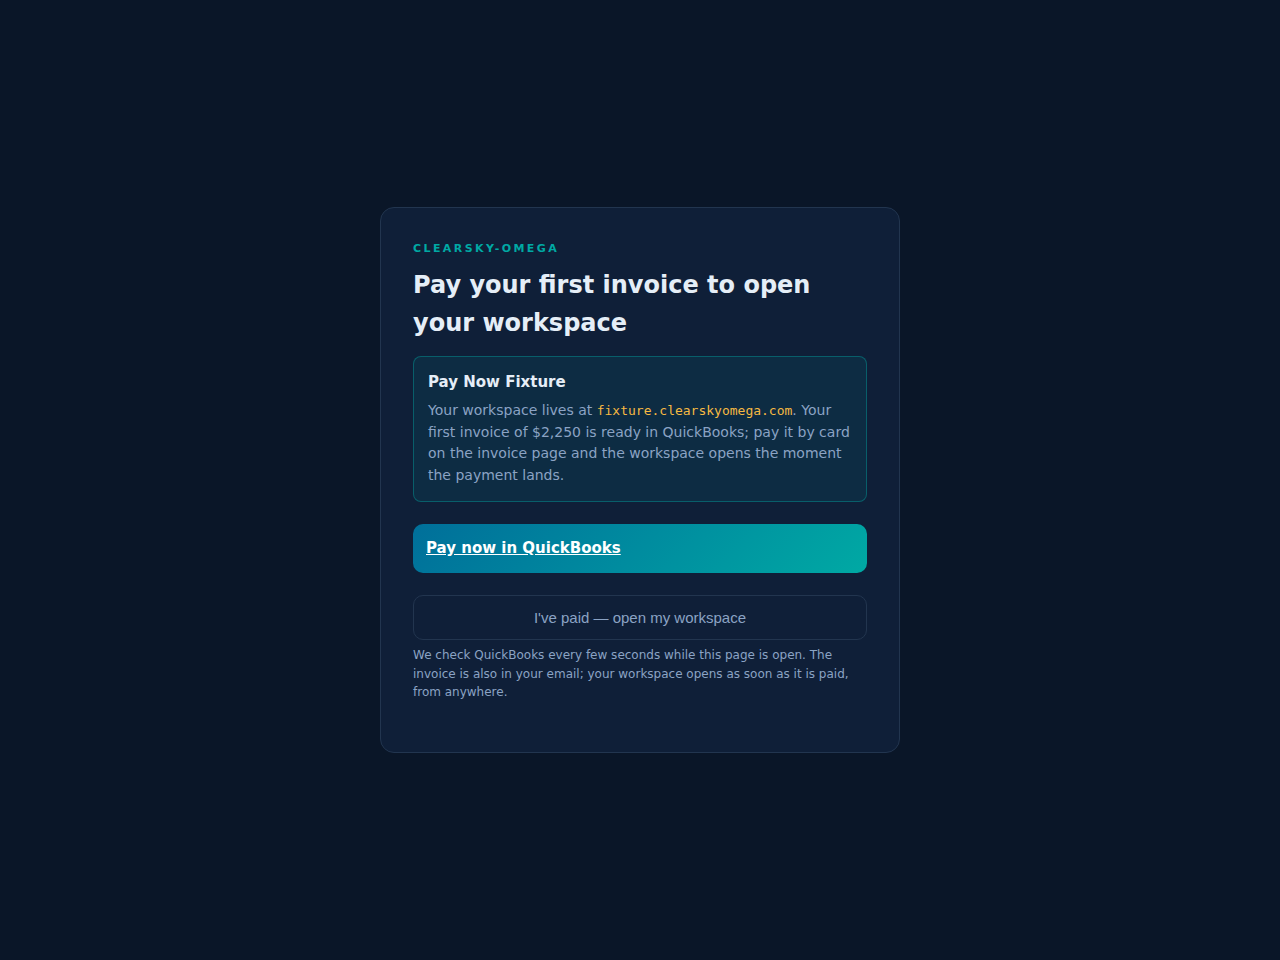
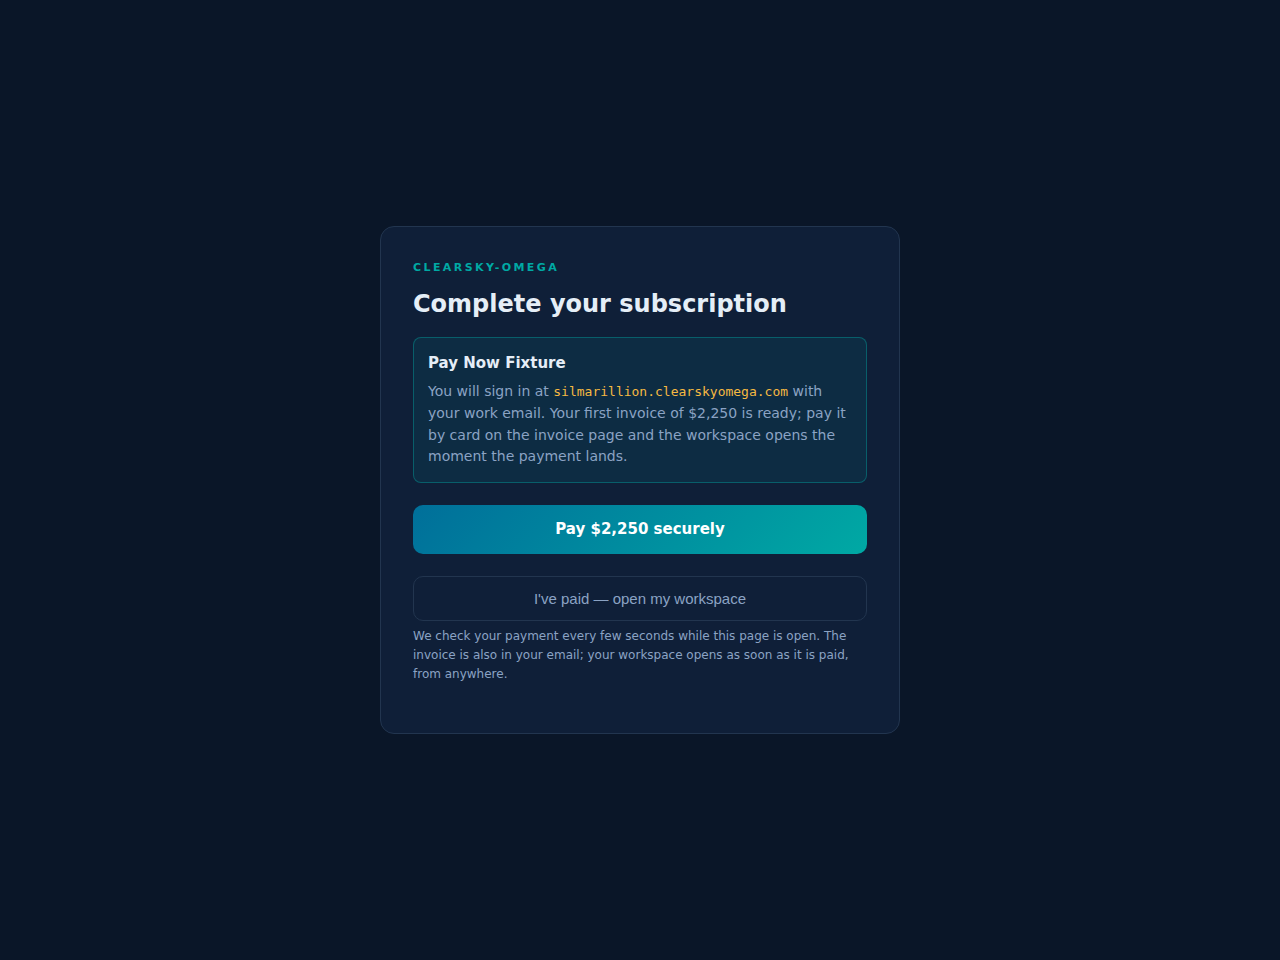
Signup: Build your system as a shop, the suggested package picked for them, a plain Subscribe
The build step is a wide two-column shop: compact square cards in a grid
per shelf (name, price, two lines of what it does, tags), the cart on the
right (lines, the price, monthly or yearly) with one Subscribe button.
The server's recommendation from the discovery answers is fetched on
arrival, picked and marked Suggested, with Use suggestion to go back to
it. The pay step reads Complete your subscription and Pay $X securely,
naming no payment system. Tests follow the new words.

Claude-Session: https://claude.ai/code/session_01NgjovuYzEurHoG46zsYYrF

Changed region(s): [[0.3125, 0.25, 0.6875, 0.75]]

diff --git a/start.html b/start.html
@@ -49,6 +49,45 @@
   .verify{margin-top:14px}
   @media(max-width:480px){.pick-row{grid-template-columns:1fr}}
 .sq{padding:10px 0;border-bottom:1px solid var(--line,#E2E8F0)}.sq-opts{display:flex;flex-wrap:wrap;gap:6px 14px;margin-top:4px;font-size:13px}.sq-opts label,.sq-more{display:inline-flex;align-items:center;gap:4px;font-weight:400;font-size:13px;margin:4px 12px 0 0;white-space:nowrap;width:auto}.sq-opts input,.sq-more input[type=checkbox]{width:auto;margin:0}
+
+  /* Build your system as a shop (Tommy, 2026-09-27): a wide page, square cards in a grid, the cart on the right */
+  body.wide .card{max-width:1120px}
+  .shop{display:grid;grid-template-columns:minmax(0,1fr) 320px;gap:22px;align-items:start;margin-top:6px}
+  .cart{position:sticky;top:18px}
+  .cart .price-panel{margin-top:0}
+  .cart .btn{margin-top:12px}
+  #signup-package-menu .pkm-shelf{margin:0 0 14px}
+  #signup-package-menu .pkm-shelf h4{margin:0 0 8px;font-size:11px;letter-spacing:.14em;text-transform:uppercase;color:var(--sub);font-weight:700}
+  #signup-package-menu .pkm-mods{display:grid;grid-template-columns:repeat(auto-fill,minmax(178px,1fr));gap:10px}
+  #signup-package-menu .pkm-mod{position:relative;display:flex!important;flex-direction:column;gap:6px;min-height:138px;margin:0;padding:12px 12px 10px;border:1px solid var(--line);border-radius:12px;background:rgba(255,255,255,.03);cursor:pointer;letter-spacing:0;font-weight:400;color:var(--txt);transition:border-color .15s,background .15s,transform .15s}
+  #signup-package-menu .pkm-mod:hover{border-color:#34507A;transform:translateY(-1px)}
+  #signup-package-menu .pkm-mod.on{border-color:var(--teal);background:rgba(0,169,164,.09)}
+  #signup-package-menu .pkm-mod input{position:absolute;top:10px;right:10px;width:16px;height:16px;margin:0;accent-color:var(--teal)}
+  #signup-package-menu .pkm-name{display:flex;flex-direction:column;gap:2px;padding-right:22px}
+  #signup-package-menu .pkm-name b{font-size:14px;line-height:1.25}
+  #signup-package-menu .pkm-price{font-size:13px;color:var(--gold);font-weight:600}
+  #signup-package-menu .pkm-desc{font-size:12px;line-height:1.4;color:var(--sub);display:-webkit-box;-webkit-line-clamp:3;-webkit-box-orient:vertical;overflow:hidden}
+  #signup-package-menu .pkm-desc + .pkm-desc{display:none}
+  #signup-package-menu .pkm-tags{display:flex;flex-wrap:wrap;gap:4px;margin-top:auto}
+  #signup-package-menu .pkm-tag{font-size:10px;padding:2px 6px;border-radius:999px;border:1px solid var(--line);color:var(--sub)}
+  #signup-package-menu .pkm-tag.beta{color:var(--gold);border-color:rgba(245,185,66,.4)}
+  #signup-package-menu .pkm-mod.sug:not(.on){border-style:dashed;border-color:var(--teal)}
+  #signup-package-menu .pkm-tag.sug{color:#fff;background:var(--teal);border-color:var(--teal)}
+  .suggest{display:flex;align-items:center;gap:10px;flex-wrap:wrap;margin:0 0 14px;padding:10px 12px;border:1px solid rgba(0,169,164,.4);background:rgba(0,169,164,.08);border-radius:10px;font-size:13px}
+  .suggest b{color:var(--txt)}
+  .suggest button{margin-left:auto;background:transparent;border:1px solid var(--teal);color:var(--teal);border-radius:999px;padding:6px 12px;font:600 12px inherit;cursor:pointer}
+  #signup-package-menu .pkm-desc,#signup-package-menu .pkm-tags{grid-column:auto}
+  #signup-package-menu .pkm-name{justify-content:flex-start;flex-wrap:nowrap}
+  #signup-package-menu .pkm-mod input{position:absolute!important;top:10px;right:10px;margin:0!important}
+  #signup-package-menu .pkm-tag{font:10px system-ui,sans-serif;background:transparent;white-space:nowrap;border-radius:999px}
+  #signup-package-menu .pkm-tag.beta{background:transparent}
+  #signup-package-menu .pkm-price{font:600 13px system-ui,sans-serif}
+  a.btn{text-align:center;text-decoration:none;box-sizing:border-box}
+  .cart-lines{list-style:none;margin:10px 0 0;padding:0;font-size:13px;color:var(--sub);max-height:180px;overflow:auto}
+  .cart-lines li{display:flex;justify-content:space-between;gap:8px;padding:3px 0}
+  .cart-lines li span:last-child{color:var(--txt)}
+  .secure{font-size:12px;color:var(--sub);text-align:center;margin-top:8px}
+  @media(max-width:860px){.shop{grid-template-columns:1fr}.cart{position:static}#signup-package-menu .pkm-mods{grid-template-columns:repeat(auto-fill,minmax(150px,1fr))}}
 </style>
 </head>
 <body>
@@ -123,26 +162,35 @@
   <!-- STEP 2c: build the system — the one module menu, priced live by the server -->
   <div id="step-build" class="hide">
     <h1>Build your system</h1>
-    <p id="signup-package-note">Every system starts with Lite. Add what you need; the price is quoted by the server as you choose, and each module is on the moment its payment clears.</p>
-    <div id="signup-package-menu"></div>
-    <div class="price-panel" id="signup-price-panel">
-      <div class="price-head"><span>Your monthly membership</span><b id="signup-package-price">—</b></div>
-      <div class="hint" id="signup-package-fit"></div>
-      <div class="pick-row">
-        <label class="pick on" id="pick-monthly"><input type="radio" name="signup-interval" value="monthly" checked onchange="intervalChanged()"><span><b>Monthly</b><small id="interval-monthly-price">—</small></span></label>
-        <label class="pick" id="pick-annual"><input type="radio" name="signup-interval" value="annual" onchange="intervalChanged()"><span><b>Yearly · two months free</b><small id="interval-annual-price">—</small></span></label>
+    <p id="signup-package-note">Every system starts with Omega Design. Pick what you need; the price updates as you choose, and each module switches on the moment your payment clears.</p>
+    <div class="shop">
+      <div>
+        <div class="suggest hide" id="signup-suggest"></div>
+        <div id="signup-package-menu"></div>
       </div>
-      <div class="hint" id="signup-interval-note">Pay for the year and you pay for ten months of twelve, invoiced once.</div>
+      <div class="cart">
+        <div class="price-panel" id="signup-price-panel">
+          <div class="price-head"><span>Your membership</span><b id="signup-package-price">—</b></div>
+          <div class="hint" id="signup-package-fit"></div>
+          <ul class="cart-lines" id="signup-cart"></ul>
+          <div class="pick-row">
+            <label class="pick on" id="pick-monthly"><input type="radio" name="signup-interval" value="monthly" checked onchange="intervalChanged()"><span><b>Monthly</b><small id="interval-monthly-price">—</small></span></label>
+            <label class="pick" id="pick-annual"><input type="radio" name="signup-interval" value="annual" onchange="intervalChanged()"><span><b>Yearly · two months free</b><small id="interval-annual-price">—</small></span></label>
+          </div>
+          <div class="hint" id="signup-interval-note">Pay for the year and you pay for ten months of twelve, invoiced once.</div>
+        </div>
+        <button class="btn" id="billing-pay" onclick="submitWorkspace(true, false, true)">Subscribe</button>
+        <div class="secure" id="signup-secure">Secure card checkout. Cancel or change modules any time.</div>
+        <button class="btn ghost" id="billing-submit" onclick="submitWorkspace(true)">Request a 14-day trial instead</button>
+        <button class="btn ghost" onclick="backToBilling()">Back to billing profile</button>
+        <div class="err" id="build-err"></div>
+      </div>
     </div>
-    <button class="btn" id="billing-pay" onclick="submitWorkspace(true, false, true)">Pay and start now</button>
-    <button class="btn ghost" id="billing-submit" onclick="submitWorkspace(true)">Request a 14-day trial instead</button>
-    <button class="btn ghost" onclick="backToBilling()">Back to billing profile</button>
-    <div class="err" id="build-err"></div>
   </div>
 
   <!-- STEP 2b: pay the first invoice; the workspace opens when it is paid -->
   <div id="step-pay" class="hide">
-    <h1>Pay your first invoice to open your workspace</h1>
+    <h1>Complete your subscription</h1>
     <div class="ok" style="display:block">
       <div style="font-weight:700;margin-bottom:6px" id="pay-name"></div>
       <div style="color:var(--sub);font-size:14px">You will sign in at <span class="host" id="pay-host"></span> with your work email. Your first invoice<span id="pay-amount"></span> is ready<span id="pay-where"></span>; pay it by card on the invoice page and the workspace opens the moment the payment lands.</div>
@@ -174,7 +222,7 @@
   var auth = firebase.auth(), signupOptions = null, billingForm = null, signupPicker = null, discoveryBuilt = false, recommended = null, proposal = null;
   function qp(k){ var m = new RegExp('[?&]' + k + '=([^&]*)').exec(location.search); return m ? decodeURIComponent(m[1]) : ''; }
   var $ = function(id){ return document.getElementById(id); };
-  function show(id){ if (window.OmegaSplash) OmegaSplash.done(); ['step-auth','step-form','step-discovery','step-billing','step-build','step-pay','step-done'].forEach(function(s){ $(s).className = s===id ? '' : 'hide'; }); }
+  function show(id){ if (window.OmegaSplash) OmegaSplash.done(); document.body.classList.toggle('wide', id === 'step-build'); ['step-auth','step-form','step-discovery','step-billing','step-build','step-pay','step-done'].forEach(function(s){ $(s).className = s===id ? '' : 'hide'; }); }
   /* the offerings page names a package (?plan=field, ?modules=lite,gridatlas); the picker starts there */
   function wantedModules(){ var m = qp('modules'); if (!m || !signupOptions) return null; var keys = signupOptions.modules.map(function (x) { return x.key; }); var out = String(m).split(',').map(function (k) { return k.trim(); }).filter(function (k) { return keys.indexOf(k) >= 0; }); return out.length ? out : null; }
   function wantedPlan(){ var p = qp('plan'); return p && ['field', 'pro', 'auto'].indexOf(p) >= 0 ? p : null; }
@@ -184,8 +232,8 @@
   function showPay(j, name){
     PAY = j; $('pay-name').textContent = name || $('f-name').value; $('pay-host').textContent = j.host || '';
     $('pay-amount').textContent = j.amountDueDisplay ? ' of ' + j.amountDueDisplay : '';
-    $('pay-where').textContent = payWith() ? ' in ' + payWith() : '';
-    var a = $('pay-link'); a.textContent = payWith() ? 'Pay now in ' + payWith() : 'Pay now';
+    $('pay-where').textContent = '';
+    var a = $('pay-link'); a.textContent = j.amountDueDisplay ? 'Pay ' + j.amountDueDisplay + ' securely' : 'Pay securely';
     if (j.paymentLink) { a.href = j.paymentLink; a.className = 'btn'; } else { a.removeAttribute('href'); a.className = 'btn ghost'; a.textContent = 'Pay from the invoice ' + (payWith() || 'we') + ' emailed' + (j.billingEmail ? ' to ' + j.billingEmail : ' you'); $('pay-status').textContent = (payWith() || 'We') + ' emailed the invoice itself, with its Pay button. Pay it there, then press I\'ve paid; we check your payment every few seconds while this page is open.'; }
     show('step-pay'); if (payTimer) clearInterval(payTimer); payTimer = setInterval(function () { if (!document.hidden) checkPayment(false); }, 8000);
   }
@@ -207,7 +255,7 @@
   window.intervalChanged = function(){
     var v = intervalValue(); $('pick-monthly').className = 'pick' + (v === 'monthly' ? ' on' : ''); $('pick-annual').className = 'pick' + (v === 'annual' ? ' on' : '');
     $('signup-interval-note').textContent = v === 'annual' ? 'Pay for the year and you pay for ten months of twelve, invoiced once. No transformation credit on annual prepay.' : 'Billed monthly on your signup day. Switch to yearly any time and pay for ten months of twelve.';
-    $('billing-pay').textContent = v === 'annual' ? 'Pay for the year and start now' : 'Pay and start now';
+    $('billing-pay').textContent = v === 'annual' ? 'Subscribe yearly' : 'Subscribe';
   };
   function setInterval_(v, locked){ var rs = document.querySelectorAll('input[name="signup-interval"]'); for (var i = 0; i < rs.length; i++) { rs[i].checked = rs[i].value === v; rs[i].disabled = !!locked; } intervalChanged(); }
   /* a password account is not verified until its link is clicked, and the server refuses an unverified one: hold here, say so, and offer the link again */
@@ -261,11 +309,39 @@
   window.backToCompany = function () { show('step-form'); };
   window.backToBilling = function () { show('step-billing'); };
   /* billing profile done: the menu, priced live */
+  /* the suggestion (Tommy: "make it auto suggest"): the server's own recommendation
+     from the discovery answers, picked for them and marked; they can change it */
+  function suggestQuietly(){
+    var u = auth.currentUser; if (!u) return;
+    u.getIdToken().then(function (tok) { return fetch('/api/subscription-proposal', { method: 'POST', headers: { 'Content-Type': 'application/json', 'Authorization': 'Bearer ' + tok }, body: JSON.stringify({ action: 'recommend', discovery: discoveryValue(), interval: intervalValue() }) }); })
+      .then(function (r) { return r.ok ? r.json() : null; })
+      .then(function (j) { if (!j || !j.recommendation) return; recommended = j; if (signupPicker) signupPicker.set(j.recommendation.modules); markSuggested(); }, function () {});
+  }
+  function modName(k){ var m = (signupOptions.modules || []).filter(function (x) { return x.key === k; })[0]; return m ? m.name : k; }
+  function markSuggested(){
+    var keys = recommended && recommended.recommendation ? recommended.recommendation.modules : [];
+    Array.prototype.forEach.call(document.querySelectorAll('#signup-package-menu .pkm-mod'), function (c) {
+      var on = keys.indexOf(c.getAttribute('data-module-card')) >= 0 && c.getAttribute('data-module-card') !== 'lite';
+      c.classList.toggle('sug', on);
+      var t = c.querySelector('.pkm-tag.sug');
+      if (on && !t) { var tags = c.querySelector('.pkm-tags'); var s1 = document.createElement('span'); s1.className = 'pkm-tag sug'; s1.textContent = 'Suggested'; if (tags) tags.insertBefore(s1, tags.firstChild); }
+      if (!on && t) t.parentNode.removeChild(t);
+    });
+    var box = $('signup-suggest');
+    if (!keys.length) { box.className = 'suggest hide'; return; }
+    var cur = signupPicker ? signupPicker.value().slice().sort().join() : '', same = cur === keys.slice().sort().join();
+    box.className = 'suggest';
+    box.innerHTML = '';
+    var t1 = document.createElement('span'); t1.innerHTML = '<b>Suggested for you:</b> '; t1.appendChild(document.createTextNode(keys.map(modName).join(' + ') + (recommended.pricing && recommended.pricing.display ? ' · ' + recommended.pricing.display.recurring : '')));
+    box.appendChild(t1);
+    if (!same) { var b = document.createElement('button'); b.type = 'button'; b.textContent = 'Use suggestion'; b.onclick = function () { signupPicker.set(keys); }; box.appendChild(b); }
+  }
   window.toBuild = function () {
     if (!billingForm || !billingForm.valid()) return;
     var u = auth.currentUser; if (!u) return;
     var start = proposal ? proposal.view.proposal.selection.modules : (wantedModules() || (recommended ? recommended.recommendation.modules : ['lite']));
-    if (!signupPicker) signupPicker = OmegaPackageMenu.picker($('signup-package-menu'), { catalog: signupOptions.modules, modules: start, readOnly: !!proposal, onChange: quoteSelection });
+    if (!signupPicker) signupPicker = OmegaPackageMenu.picker($('signup-package-menu'), { catalog: signupOptions.modules, modules: start, readOnly: !!proposal, onChange: function () { markSuggested(); quoteSelection(); } });
+    if (!proposal && !wantedModules()) { if (recommended) markSuggested(); else suggestQuietly(); }
     $('billing-pay').style.display = signupOptions.payNow ? '' : 'none';
     if (proposal) { setInterval_(proposal.view.proposal.selection.interval || 'monthly', true); $('signup-package-note').textContent = 'The package your proposal priced. To change it, ask for a new proposal.'; }
     quoteSelection(); show('step-build');
@@ -322,6 +398,8 @@
       .then(function (j) {
         var pr = j.pricing, annual = pr.annualPrepayCents, saved = pr.annualSavesCents != null ? pr.annualSavesCents : pr.recurringCents * 12 - annual;
         $('signup-package-price').textContent = pr.display.recurring;
+        var cart = $('signup-cart'); cart.innerHTML = '';
+        (signupPicker ? signupPicker.value() : []).forEach(function (k) { var m = (signupOptions.modules || []).filter(function (x) { return x.key === k; })[0]; if (!m) return; var li = document.createElement('li'), a1 = document.createElement('span'), a2 = document.createElement('span'); a1.textContent = m.name; a2.textContent = m.priceDisplay || ''; li.appendChild(a1); li.appendChild(a2); cart.appendChild(li); });
         $('signup-package-fit').textContent = (pr.planDisplay || pr.display.plan || '') + (pr.display.fit ? ' · ' + pr.display.fit : '');
         $('interval-monthly-price').textContent = pr.display.recurring + ', invoiced on your billing day';
         $('interval-annual-price').textContent = money(annual) + '/year, invoiced once · save ' + money(saved);

diff --git a/scripts/render-packaging-billing.js b/scripts/render-packaging-billing.js
@@ -147,10 +147,10 @@ async function run() {
     await pp10.locator('#billing-continue').click(); await pp10.locator('#step-build').waitFor({ state: 'visible' });
     /* the build step: the menu, the monthly membership quoted by the server, monthly or yearly at ten months */
     await pp10.waitForFunction(function () { return /^\$[\d,]+\/month$/.test(document.getElementById('signup-package-price').textContent); });
-    check((await pp10.locator('#billing-pay').textContent()).trim() === 'Pay and start now' && (await pp10.locator('#billing-submit').textContent()).indexOf('trial instead') > 0, 'the build step offers pay-and-start first and the trial second');
+    check((await pp10.locator('#billing-pay').textContent()).trim() === 'Subscribe' && (await pp10.locator('#billing-submit').textContent()).indexOf('trial instead') > 0, 'the build step offers pay-and-start first and the trial second');
     check(/\/year, invoiced once · save \$[\d,]+/.test(await pp10.locator('#interval-annual-price').textContent()), 'the yearly card shows the year\u2019s price and the saving: ' + await pp10.locator('#interval-annual-price').textContent());
     await pp10.locator('#pick-annual input').check();
-    check((await pp10.locator('#billing-pay').textContent()).trim() === 'Pay for the year and start now' && /ten months of twelve/.test(await pp10.locator('#signup-interval-note').textContent()), 'yearly: the button and the note say so');
+    check((await pp10.locator('#billing-pay').textContent()).trim() === 'Subscribe yearly' && /ten months of twelve/.test(await pp10.locator('#signup-interval-note').textContent()), 'yearly: the button and the note say so');
     await pp10.locator('#pick-monthly input').check();
     await pp10.locator('#billing-pay').click(); await pp10.locator('#step-pay').waitFor({ state: 'visible' });
     var payBill = db.data.get('omega_orgs/paynow-fixture.example/billing/current'), payOrg = db.data.get('omega_orgs/paynow-fixture.example');

diff --git a/scripts/test-self-serve-signup.js b/scripts/test-self-serve-signup.js
@@ -248,8 +248,8 @@ var count = 0; async function test(n, f) { await f(); count++; console.log('PASS
   console.log('\nthe pages');
   await test('signup, login and the workspace carry the path: pay and start, the pay step, the offerings link, "I\'ve paid"', async function () {
     var st = read('start.html'), lg = read('login.html'), of = read('offerings.html'), ot = read('omega-tenant.js');
-    assert.match(st, /id="billing-pay" onclick="submitWorkspace\(true, false, true\)">Pay and start now</); assert.match(st, /id="billing-submit" onclick="submitWorkspace\(true\)">Request a 14-day trial instead</);
-    assert.match(st, /<div id="step-pay" class="hide">/); assert.match(st, /id="pay-link" target="_blank" rel="noopener">Pay now</); assert.match(st, /a\.textContent = payWith\(\) \? 'Pay now in ' \+ payWith\(\) : 'Pay now'/); assert.match(st, /onclick="checkPayment\(true\)">I've paid — open my workspace</);
+    assert.match(st, /id="billing-pay" onclick="submitWorkspace\(true, false, true\)">Subscribe</); assert.match(st, /id="billing-submit" onclick="submitWorkspace\(true\)">Request a 14-day trial instead</);
+    assert.match(st, /<div id="step-pay" class="hide">/); assert.match(st, /id="pay-link" target="_blank" rel="noopener">Pay now</); assert.match(st, /a\.textContent = j\.amountDueDisplay \? 'Pay ' \+ j\.amountDueDisplay \+ ' securely' : 'Pay securely'/); assert.match(st, /onclick="checkPayment\(true\)">I've paid — open my workspace</);
     assert.match(st, /action: 'check-payment'/);
     assert.match(st, /id="billing-continue" onclick="toBuild\(\)"/); assert.match(st, /<div id="step-build" class="hide">/); assert.match(st, /name="signup-interval" value="annual"/); assert.match(st, /two months free/);
     assert.match(st, /holdForVerification\(u\)/); assert.match(st, /omega:signup-draft/); assert.ok(!/start\.html\?company=/.test(lg), 'the company never travels in a link');
